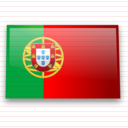
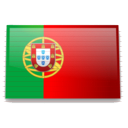
added ability to close the functions

Changed region(s): [[0.0, 0.1875, 0.9688, 0.8125]]

diff --git a/js/js.js b/js/js.js
@@ -3,20 +3,30 @@
 function switchLanguage(language){
         
     if (language == 1){
+        document.getElementById("skillsList").style.display = "list-item";
+        document.getElementById("projectsList").style.display = "list-item";
+        document.getElementById("contactsList").style.display = "list-item";
+        document.getElementById("skillsClosed").style.display = "none";
+        document.getElementById("projectsClosed").style.display = "none";
+        document.getElementById("contactsClosed").style.display = "none";
+        
         var en = document.getElementsByClassName("en");
             for(var i = 0; i < en.length; i++){
                  en[i].style.display = "none"; 
         }
-
+        document.getElementById("enImg").style.border = "0";
+        
         var pt = document.getElementsByClassName("pt");
             for(var i = 0; i < pt.length; i++){
                 pt[i].style.display = "inline"; 
         }
+        document.getElementById("ptImg").style.border = "2px solid white";
 
         var hk = document.getElementsByClassName("hk");
             for(var i = 0; i < hk.length; i++){
                 hk[i].style.display = "none";  
         }
+        document.getElementById("hkImg").style.border = "0";
     }
 
     if (language == 2 ) {
@@ -24,32 +34,86 @@ function switchLanguage(language){
             for(var i = 0; i < en.length; i++){
                 en[i].style.display = "none"; 
         }
+        document.getElementById("enImg").style.border = "0";
 
         var pt = document.getElementsByClassName("pt");
             for(var i = 0; i < pt.length; i++){
                 pt[i].style.display = "none"; 
         }
+        document.getElementById("ptImg").style.border = "0";
 
         var hk = document.getElementsByClassName("hk");
             for(var i = 0; i < hk.length; i++){
                 hk[i].style.display = "inline";  
         }
+        document.getElementById("hkImg").style.border = "2px solid white";
     };
 
     if (language == 3 ) {
+        document.getElementById("skillsList").style.display = "list-item";
+        document.getElementById("projectsList").style.display = "list-item";
+        document.getElementById("contactsList").style.display = "list-item";
+        document.getElementById("skillsClosed").style.display = "none";
+        document.getElementById("projectsClosed").style.display = "none";
+        document.getElementById("contactsClosed").style.display = "none";
+
         var en = document.getElementsByClassName("en");
             for(var i = 0; i < en.length; i++){
                 en[i].style.display = "inline"; 
         }
+        document.getElementById("enImg").style.border = "2px solid white";
 
         var pt = document.getElementsByClassName("pt");
             for(var i = 0; i < pt.length; i++){
                 pt[i].style.display = "none"; 
         }
+        document.getElementById("ptImg").style.border = "0";
 
         var hk = document.getElementsByClassName("hk");
             for(var i = 0; i < hk.length; i++){
                 hk[i].style.display = "none";  
         }
+        document.getElementById("hkImg").style.border = "0";
     };
 }
+
+
+function switchState(state){
+    if (state == 1 ){
+        list = document.getElementById("skillsList");
+        close = document.getElementById("skillsClosed");
+        if(list.style.display == "list-item"){
+            list.style.display = "none";
+            close.style.display = "inline";
+        } else {
+            list.style.display = "list-item";
+            close.style.display = "none";
+        }
+    }
+
+    if(state == 2){
+        list = document.getElementById("projectsList");
+        close = document.getElementById("projectsClosed");
+        if(list.style.display == "list-item"){
+            list.style.display = "none";
+            close.style.display = "inline";
+        } else {
+            list.style.display = "list-item";
+            close.style.display = "none";
+        }
+    }
+
+    if(state == 3){
+        list = document.getElementById("contactsList");
+        close = document.getElementById("contactsClosed");
+        if(list.style.display == "list-item"){
+            list.style.display = "none";
+            close.style.display = "inline";
+        } else {
+            list.style.display = "list-item";
+            close.style.display = "none";
+        }
+    }
+}
+
+

diff --git a/index.html b/index.html
@@ -17,11 +17,11 @@
             <img src="resources/face.bmp" id="face"> <h3 id="name">Fernando Pinto</h3>
             <div id="skills">
                 <h2>
-                    <p class="hk">.showSkills(){</p>
+                    <p class="hk" onclick="switchState(1);">.showSkills(){</p>
                     <p class="en">Skills</p>
                     <p class="pt">Aptidões</p>
                 </h2>
-                <ul>
+                <ul id="skillsList">
                         <li>C</li>
                         <li>C++</li>
                         <li>Asm</li>
@@ -29,25 +29,27 @@
                         <li>HTML</li>
                         <li>CSS</li>
                         <li>Javascript</li>
-                </ul>  
+                </ul>
+                <p id="skillsClosed">...</p>  
                 <h2><p class="hk">}</p></h2> 
                 <h2>
-                    <p class="hk">.showProjects(){</p>
+                    <p class="hk" onclick="switchState(2);">.showProjects(){</p>
                     <p class="en">Projects</p>  
                     <p class="pt">Projectos</p>      
                 </h2>
-                <ul>
+                <ul id="projectsList">
                         <li>+InfoPorto</li>
                         <li>Soundanoid</li>
                         <li>JWallet</li>
                 </ul> 
+                <p id="projectsClosed">...</p>
                 <h2><p class="hk">}</p></h2> 
                 <h2>
-                    <p class="hk">.contact(){</p>
+                    <p class="hk" onclick="switchState(3);">.contact(){</p>
                     <p class="en">Contacts</p>
                     <p class="pt">Contactos</p>        
                 </h2>
-                <ul>
+                <ul id="contactsList">
                         <li>
                             <a href="https://pt.linkedin.com/pub/fernando-pinto/94/16b/903/" target='_new'>LinkedIn</a>      
                         </li>
@@ -58,6 +60,7 @@
                             <a href="https://bitbucket.org/FernandoPinto" target='_new'>BitBucket</a>
                         </li>
                 </ul>  
+                <p id="contactsClosed">...</p>
                 <h2><p class="hk">}</p></h2>    
             </div>
         </div>
@@ -67,9 +70,9 @@
         </div>
 
         <div class="toggleSwitch"> 
-            <img src="resources/pt.png" style="width: 20px; height: 20px;" onclick="switchLanguage(1);"></img>
-            <img src="resources/en.png" style="width: 20px; height: 20px;" onclick="switchLanguage(3);"></img>
-            <img src="resources/bin.png" style="width: 20px; height: 20px;" onclick="switchLanguage(2);"></img>
+            <img id="ptImg" src="resources/pt.png" style="width: 20px; height: 20px;" onclick="switchLanguage(1);"></img>
+            <img id="enImg" src="resources/en.png" style="width: 20px; height: 20px;" onclick="switchLanguage(3);"></img>
+            <img id="hkImg" src="resources/bin.png" style="width: 20px; height: 20px;" onclick="switchLanguage(2);"></img>
         </div>
 
 

diff --git a/css/css.css b/css/css.css
@@ -42,12 +42,12 @@ body {
 
 #personal #name {
 	margin-top: 10%;
-	margin-left: 48%;
+	margin-left: 110px;
 	color: #085912;
 }
 
 #personal #skills {
-	margin-top: 25%;
+	margin-top: 15%;
 	margin-left: 10%;
 	color: #085912;
 
@@ -56,7 +56,7 @@ body {
 
 	padding: 2%;
 	width: 80%;
-	height: 70%;
+	height: 85%;
 }
 
 #personal #skills a {
@@ -101,12 +101,19 @@ body {
     cursor: pointer;
     right: 0;
 }
-.hk {
-	display: inline;
-}
-.en {
-	display: none;
-}
-.pt {
-	display: none;
-}
+
+.hk {display: inline;}
+.en {display: none;}
+.pt {display: none;}
+
+#ptImg{border:0;border-radius: 2px;}
+#enImg{border:0;border-radius: 2px;}
+#hkImg{border:2px solid white;border-radius: 2px;}
+
+#skillsClosed{display: inline;}
+#projectsClosed{display: inline;}
+#contactsClosed{display: inline;}
+
+#skillsList{display: none;}
+#projectsList{display: none;}
+#contactsList{display: none;}
